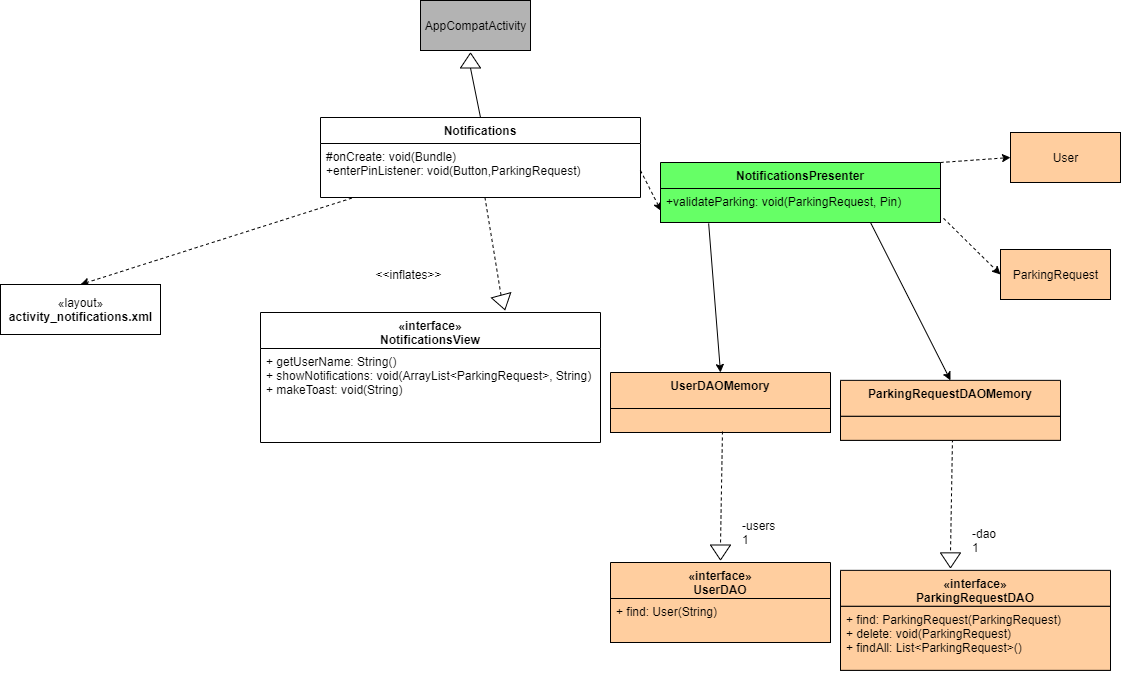
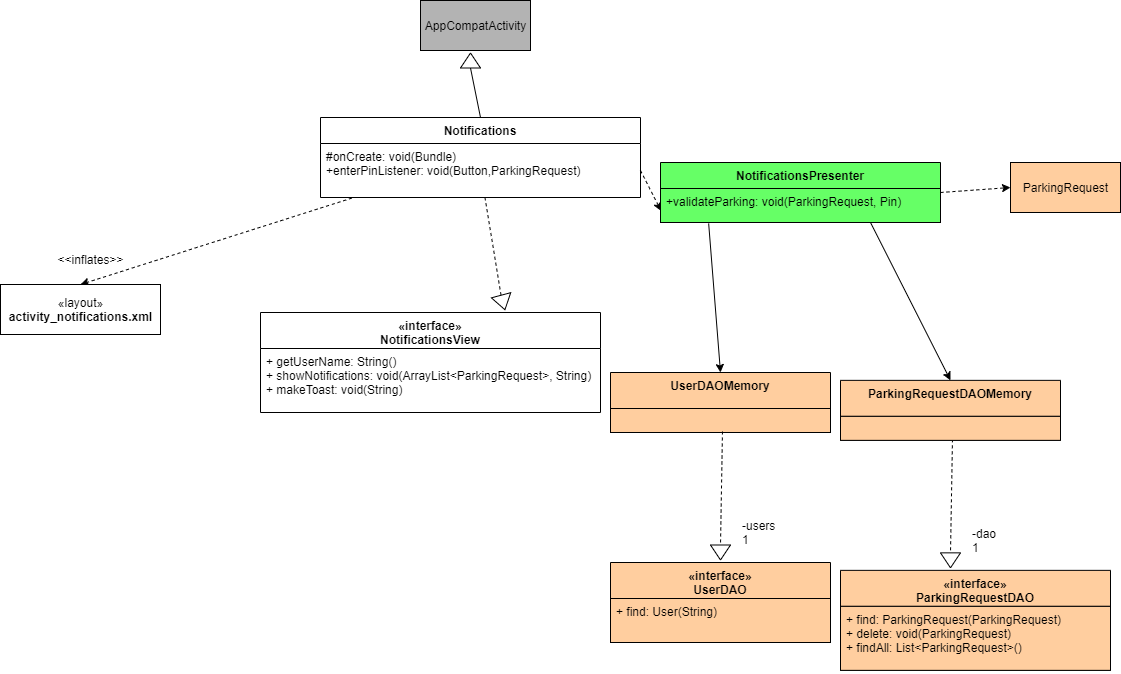
BIG PUSH ALL D-RELATED THINGS

Changed region(s): [[0.8742, 0.1869, 1.0, 0.4674], [0.3434, 0.405, 0.3747, 0.4362], [0.0624, 0.3739, 0.0937, 0.405]]

diff --git a/design.md b/design.md
@@ -73,6 +73,6 @@
 
 
 # Επιβεβαίωση διαθεσιμότητας θέσης / 
-![Class](R4_Diagrams/Class Diagrams/)   
-![Sequence](R4_Diagrams/Sequence Diagrams/)
+![Class](R4_Diagrams/Class Diagrams/ConfirmParkingSpaceCD.png)   
+![Sequence](R4_Diagrams/Sequence Diagrams/ConfirmParkingSpaceSD.png)
 
